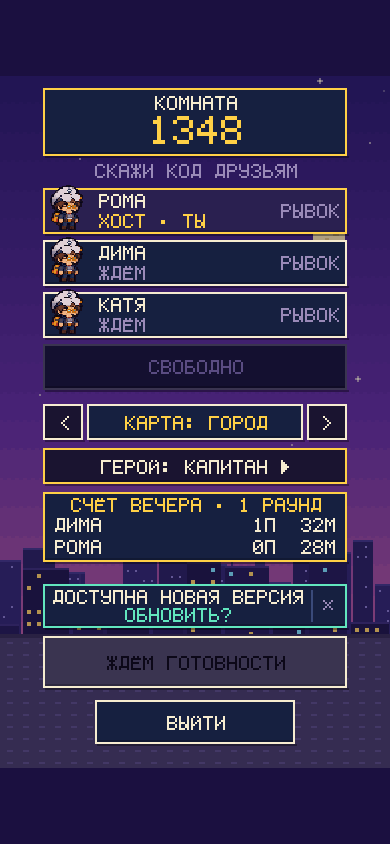
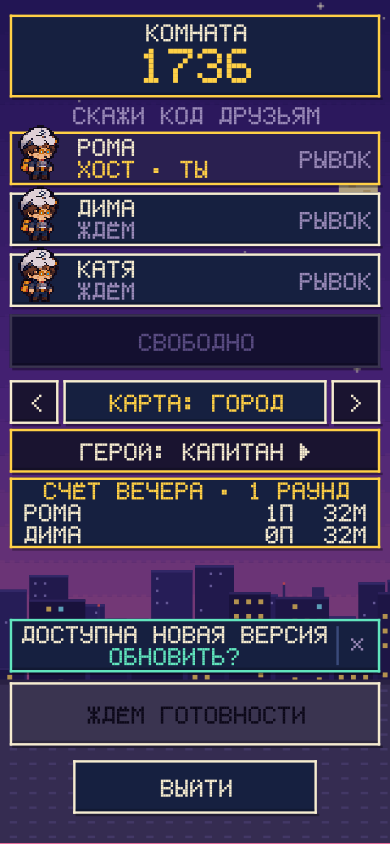
bluegreen e2e & docs: ephemeral ports, isolated tmp, prod-host guard, BUG-50/51 checks and screens

diff --git a/game/BLUEGREEN_CLIENT.md b/game/BLUEGREEN_CLIENT.md
@@ -1,6 +1,6 @@
 # Хоппак: клиентская часть blue-green деплоя
 
-Ветка: `feat/bluegreen-client` (база: `client/v058 @ 2442390`, содержит прод `b5c3fc8`).
+Ветка: `feat/bluegreen-client` (база: `client/v058 @ 6a6585d`, содержит `7de5b3a` BUG-37, `bd1ed70`, `b5c3fc8`).
 Серверная часть: ветка `feat/bluegreen-server` (`/workspace/jumper-bluegreen/server/BLUEGREEN.md`).
 
 ## 1. Что изменено
@@ -65,3 +65,15 @@ node game/tests/bluegreen-e2e.mjs
 - Тесты: `node game/tests/bluegreen-e2e.mjs`, секции 11–13 (S1–S17): 4 v2-клиента + реальные v0.56 (`312cbc9`) и v0.57 (`b5c3fc8`)
   при переключении посреди раунда, сокет падает в окне закрытия, реванш на green, баннер, смерть активного слота.
   Тестовый клиент собирается во временную папку с `HOP_VERSION=0.57.0`, чтобы green (0.58.0) был новее.
+
+## 6. Сборка без зашитого адреса прода, lobby ping (BUG-50) и итоги на 4 игроков (BUG-51)
+
+- **Без зашитого адреса (`game/build.sh`)**:
+  - `./build.sh site` по умолчанию **не зашивает** URL прода: клиент использует same-origin (`window.location.origin` → `wss://<host>/ws`, `/ws/<node>`, `/api/health`) с сохранением override через `?server=...`.
+  - Если в деплое статика раздаётся с **другого домена/origin**, Devops может задать при сборке `HOP_SERVER_URL=https://... ./build.sh site` (алиас `HOP_SERVER` тоже поддерживается). На проде и staging с единым Caddy-origin переменная не нужна.
+  - Сборка автоматически падает с ошибкой, если в `hoppak.js`, `page-build/hop.canvas.tsx` или в `site/hoppak.js` (при пустом `HOP_SERVER_URL`) обнаружится зашитый хост прода. Временные файлы сборки изолируются через `mktemp -d`.
+- **Keepalive в лобби (BUG-50)**: v2-клиент в открытом сокете шлёт `{event:'ping', data:{c}}` каждые `25 с` (настраивается для тестов через `window.HOPPAK_LOBBY_PING_MS`), пока не идут частые `N.frame()`-пинги. На v1 и v2 серверах безопасно.
+- **Экран итогов на 4 игроков (BUG-51)**:
+  - В `drawResults()` компактный строчный список игроков и блок монет для `mode === "squad"` (не затрагивая соло), компактный `drawEvening()` и поджатая сетка `drawRoom()` — все 4 игрока, причина падения, прогресс цели, монеты, счёт вечера, рекорд и следующий герой помещаются выше `y = 254` (до плашки «ОБНОВИТЬ?» на `y = 258` и кнопок «РЕВАНШ»/«МЕНЮ»/«МАГАЗИН»).
+  - Исправлено склонение «СЧЁТ ВЕЧЕРА · N РАУНД / РАУНДА / РАУНДОВ».
+- **Стабильность `bluegreen-e2e.mjs`**: свободные порты (или из `BG_E2E_*` env) и изолированный временный каталог `mkdtempSync`, удаляемый в `finally`.
